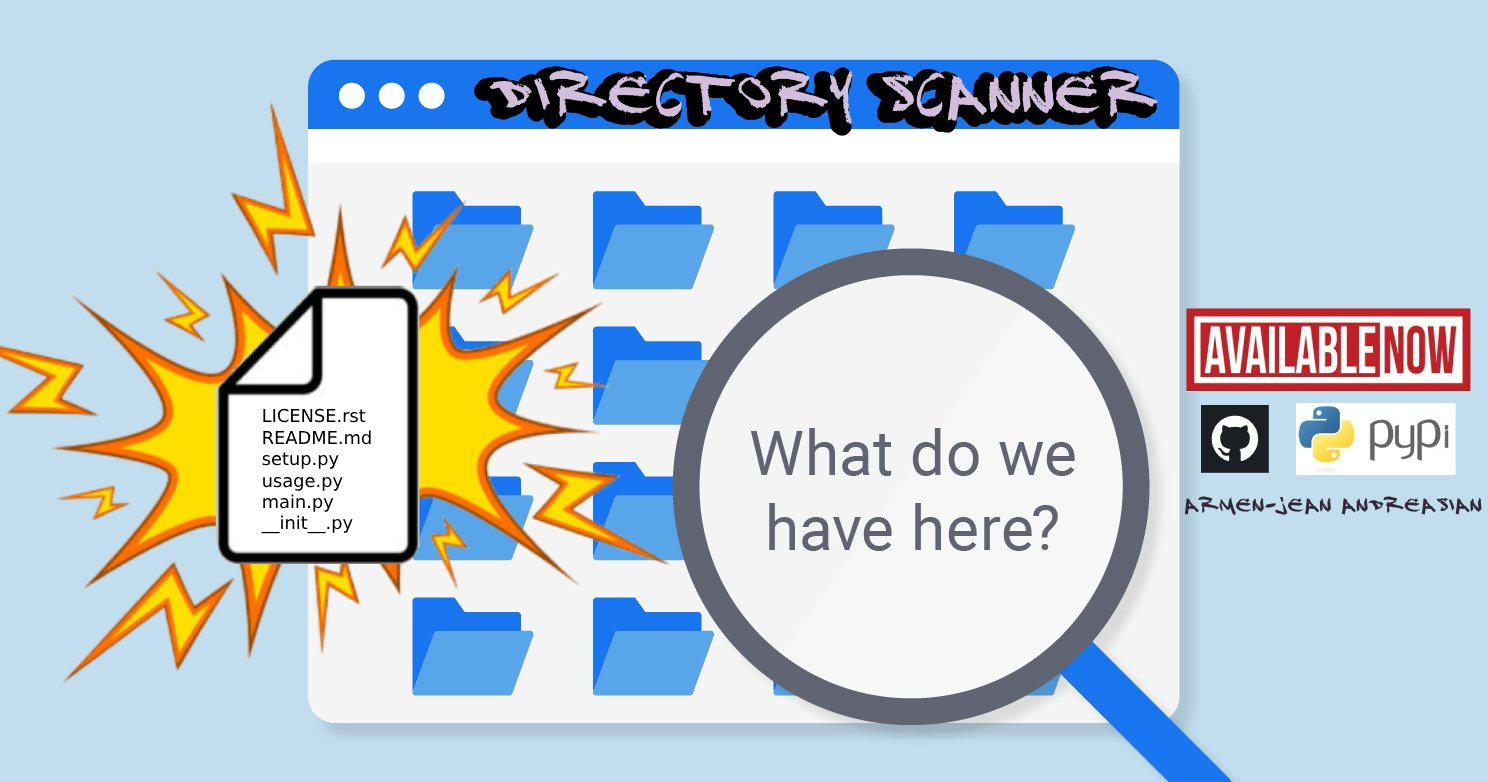
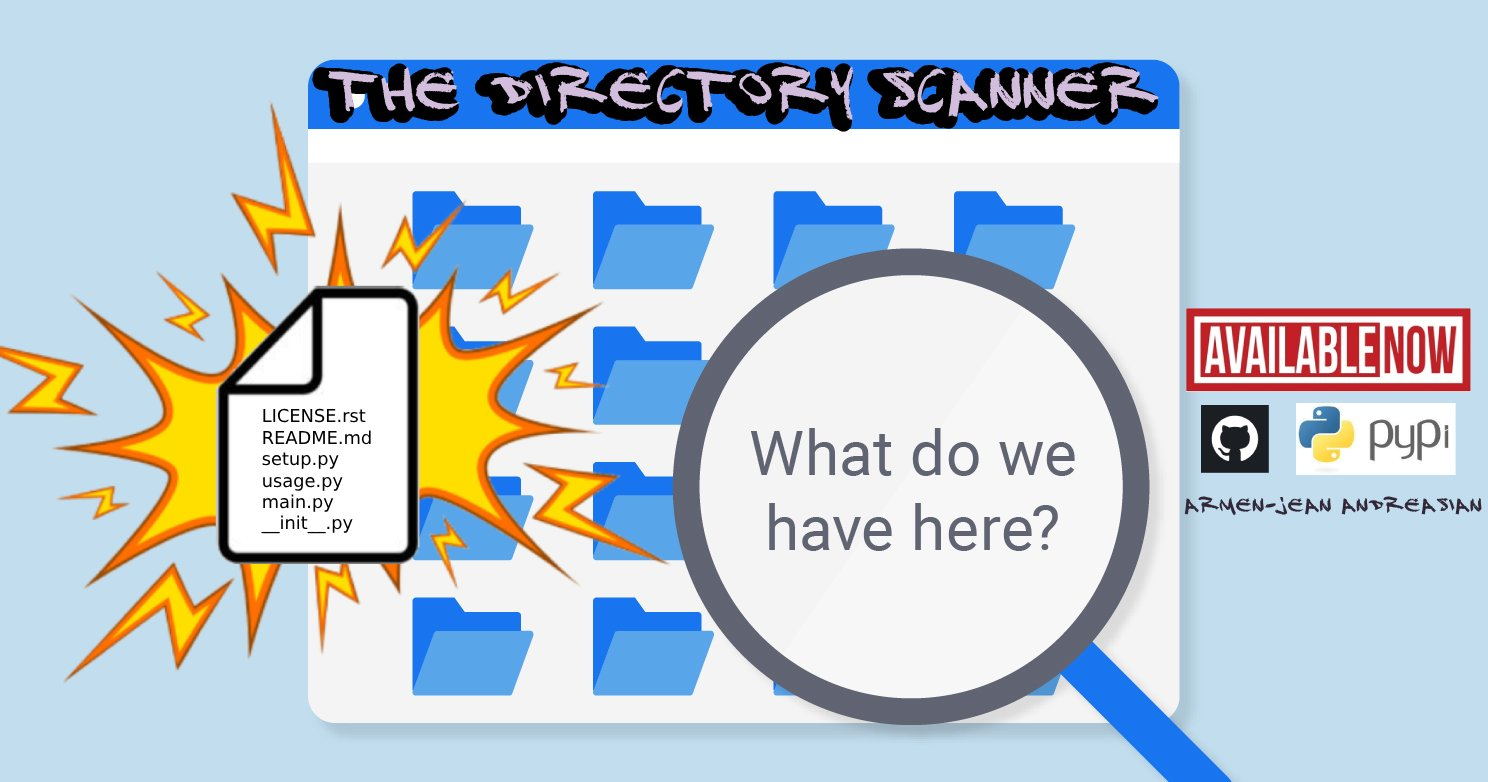
Initial commit

Changed region(s): [[0.1855, 0.0614, 0.8038, 0.1841]]

diff --git a/setup.py b/setup.py
@@ -4,8 +4,8 @@ with open("README.md", "r", encoding="utf-8") as fh:
     long_description = fh.read()
 
 setup(
-    name='directory_scanner',
-    packages=['directory_scanner'],
+    name='the-directory-scanner',
+    packages=['the_directory_scanner'],
     version='1.0',
     license='BSD',
 

diff --git a/usage.py b/usage.py
@@ -1,4 +1,4 @@
-from directory_scanner import prettify_structure, scan_directory
+from the_directory_scanner import prettify_structure, scan_directory
 
 scan_result = scan_directory(directory=".",
                              output_file_name="directory_structure.txt",

diff --git a/README.md b/README.md
@@ -1,4 +1,4 @@
-## Directory Scanner
+## The Directory Scanner
 
 The Directory Scanner is a Python library designed to simplify the process of scanning directory structures and generating a comprehensive list of files and folders. It provides a convenient way to recursively traverse directories, ignoring specific files and folders specified by the user.
 
@@ -11,12 +11,12 @@ The Directory Scanner is a Python library designed to simplify the process of sc
 ### Usage:
 1. Install the library using pip:
     ```
-    pip install directory-scanner
+    pip install the-directory-scanner
     ```
 
 2. Import the `scan_directory` function from the library and use it to scan a directory:
     ```python
-   from directory_scanner import scan_directory
+   from the_directory_scanner import scan_directory
    
    scan_result = scan_directory(directory=".", output_file_name="directory_structure.txt",
                                 ignored_items=('.git', '.idea', 'venv', '__pycache__',))
@@ -25,7 +25,7 @@ The Directory Scanner is a Python library designed to simplify the process of sc
 
 4. If you wish to modify the structure, import `prettify_structure` function and provide the path to generated file:
    ```python
-   from directory_scanner import scan_directory, prettify_structure
+   from the_directory_scanner import scan_directory, prettify_structure
    
    scan_result = scan_directory(directory=".", output_file_name="directory_structure.txt",
                                 ignored_items=('.git', '.idea', 'venv', '__pycache__',))
@@ -52,7 +52,7 @@ directory_scanner/
 The Directory Scanner library aims to simplify directory scanning tasks by providing a flexible and easy-to-use interface. Whether you need to generate a directory structure for documentation, analysis, or any other purpose, this library offers a convenient solution.
 
 ### Links:
-- [GitHub Repository](https://github.com/Armen-Jean-Andreasian/directory-scanner)
-- [PyPI Package](https://pypi.org/project/directory-scanner/)
+- [GitHub Repository](https://github.com/Armen-Jean-Andreasian/the-directory-scanner)
+- [PyPI Package](https://pypi.org/project/the-directory-scanner/)
 
 ---
